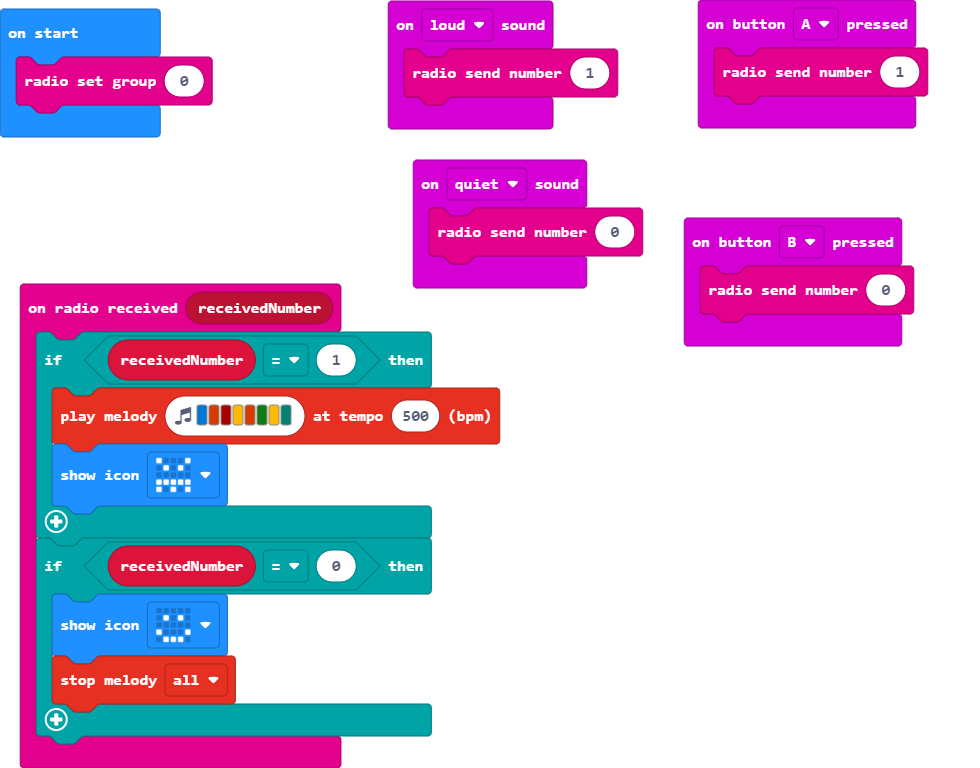
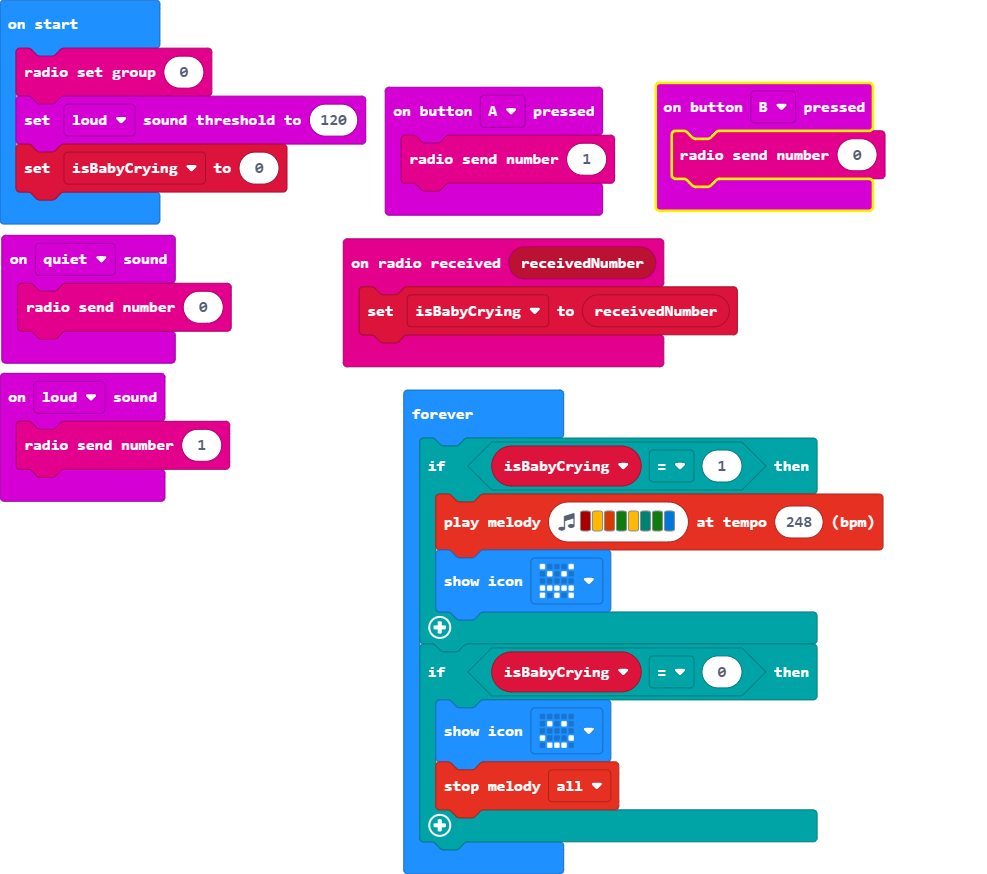
Looping sound

diff --git a/main.ts b/main.ts
@@ -4,14 +4,7 @@ enum RadioMessage {
     Crying = 58844
 }
 radio.onReceivedNumber(function (receivedNumber) {
-    if (receivedNumber == 1) {
-        music.playMelody("E B C5 A B G A F ", 500)
-        basic.showIcon(IconNames.Angry)
-    }
-    if (receivedNumber == 0) {
-        basic.showIcon(IconNames.Happy)
-        music.stopMelody(MelodyStopOptions.All)
-    }
+    isBabyCrying = receivedNumber
 })
 input.onButtonPressed(Button.A, function () {
     radio.sendNumber(1)
@@ -25,4 +18,17 @@ input.onButtonPressed(Button.B, function () {
 input.onSound(DetectedSound.Quiet, function () {
     radio.sendNumber(0)
 })
+let isBabyCrying = 0
 radio.setGroup(0)
+input.setSoundThreshold(SoundThreshold.Loud, 120)
+isBabyCrying = 0
+basic.forever(function () {
+    if (isBabyCrying == 1) {
+        music.playMelody("C5 A B G A F G E ", 248)
+        basic.showIcon(IconNames.Angry)
+    }
+    if (isBabyCrying == 0) {
+        basic.showIcon(IconNames.Happy)
+        music.stopMelody(MelodyStopOptions.All)
+    }
+})
